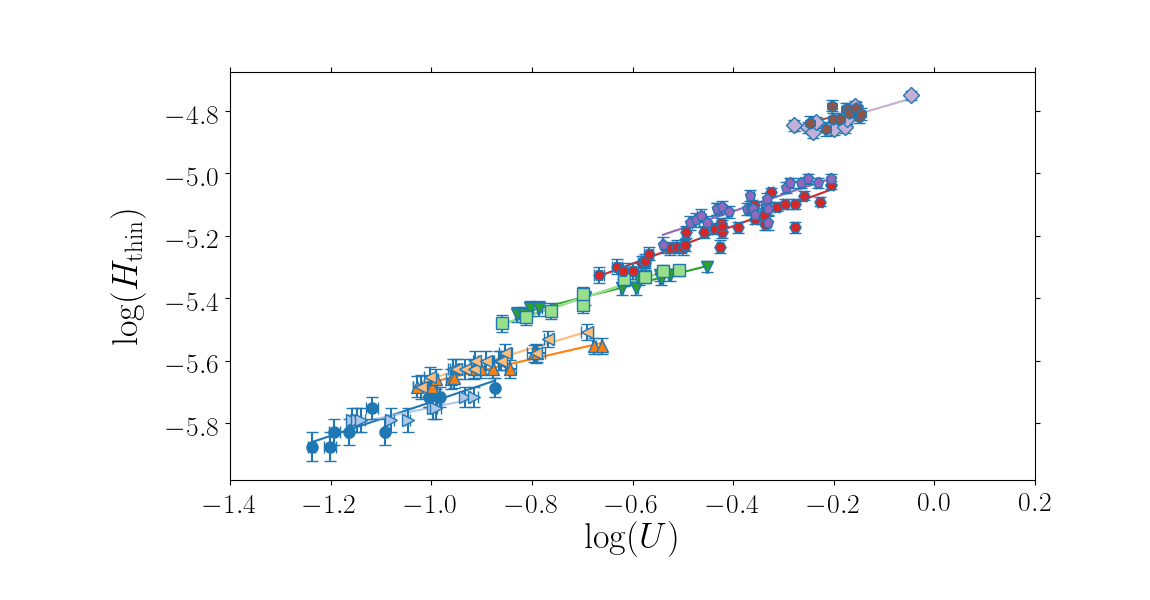
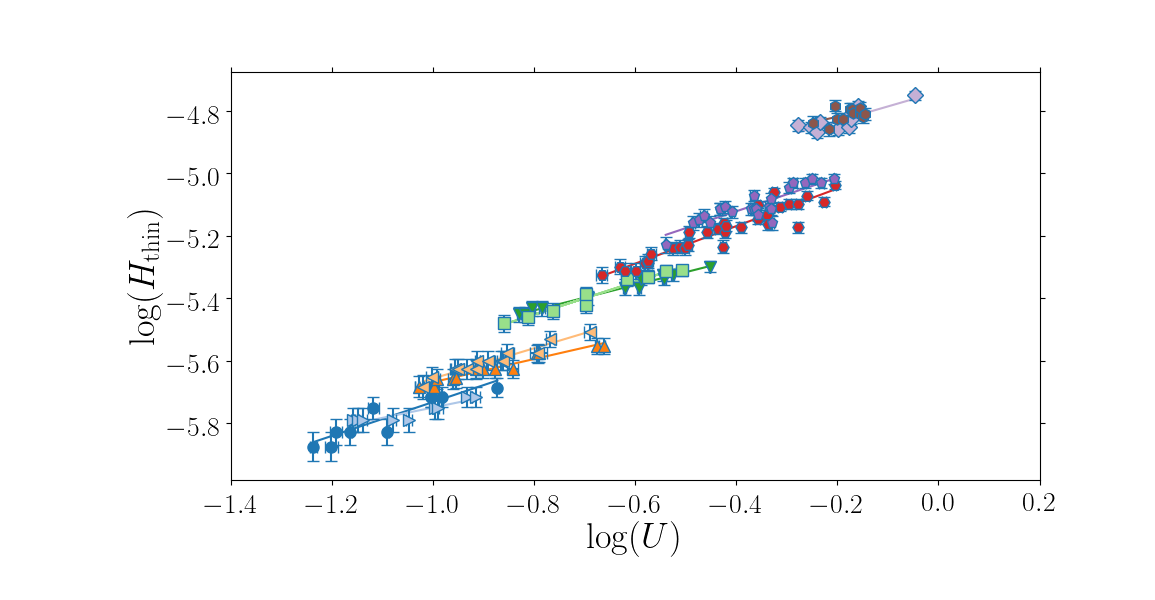
thinpart_powerlaw ylabel

diff --git a/thinpart_powerlaw.py b/thinpart_powerlaw.py
@@ -75,7 +75,7 @@ for data inspection
 for data plotting
 
 """
-fig,ax = plt.subplots(figsize=(11.5,6))
+fig,ax = plt.subplots(figsize=(11.55,6))
 
 plt.subplots_adjust(bottom=0.2,left=0.2)
 #plt.subplots_adjust(bottom=0.3,top=0.8,left=0.35)
@@ -217,7 +217,7 @@ print 'f = %.4f+/-%.4f' %(f,sigmaf)
 
 plt.tick_params(labelsize=20,right=True,top=True)
 ax.xaxis.set_label_coords(0.5,-0.1)
-ax.yaxis.set_label_coords(-0.1,0.5)
+ax.yaxis.set_label_coords(-0.08,0.5)
 ax.set_xlabel(r'$\log(U)$',fontsize=26,labelpad=0)
 ax.set_ylabel(r'$\log(H_{\text{thin}})$',fontsize=26,labelpad=0)
 #ax.yaxis.set_major_formatter(FormatStrFormatter('%.1f'))
